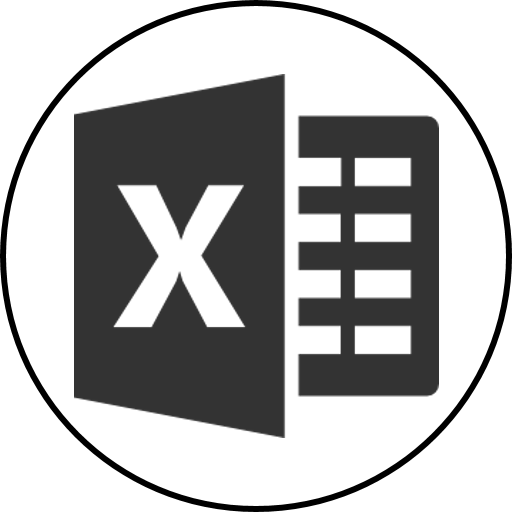
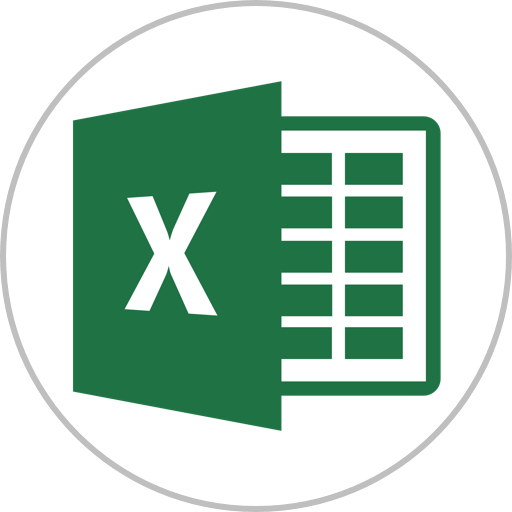
pdf symbol added

diff --git a/view_employees_salary.html b/view_employees_salary.html
@@ -10,7 +10,7 @@
             <div class="col-sm-12 ">
                 <img src="imgs/back_icon_grey.png" alt="back" id="backbtn" width=50px style="border:thick">
 
-                <img src="imgs/home-icon.png" alt="back" id="homebtn" width=60px style="float:right">
+               
             </div>
         </div>
 
@@ -49,9 +49,16 @@
 
             </div>
             
-           <div class="col-sm-4   ">
-                <div class=" form-group  ">
-                    <span><img src="imgs/n_excel.png" alt="back" id="closbtn" width=50px ></span>
+           <div class="col-sm-2">
+               
+                <div class=" form-group">
+                    <span><img src="imgs/n_pdf.png" alt="back" class="expdficon" width=50px ></span>
+                   
+                </div>
+             </div> 
+             <div class="col-sm-1">
+                <div class=" form-group ">
+                    <span><img src="imgs/n_excel.png" alt="back" width=50px class="expdficon" ></span>
                    
                 </div>
 

diff --git a/ERPstyle.css b/ERPstyle.css
@@ -167,6 +167,7 @@ h1{
    background-color: rgb(240,240,240); 
    
     margin-bottom: 25px;
+    padding: 15px;
 }
 
 .btnbrd{
@@ -464,3 +465,18 @@ html,body{
 .ontmbtu {
     margin-top: 15px;
 }
+
+.expdficon {
+    margin-left: 20px;
+    float: right;
+    margin-top: -11px;
+    margin-bottom: 10px;
+}
+
+#closbtn expdficon {
+    
+}
+
+
+
+
